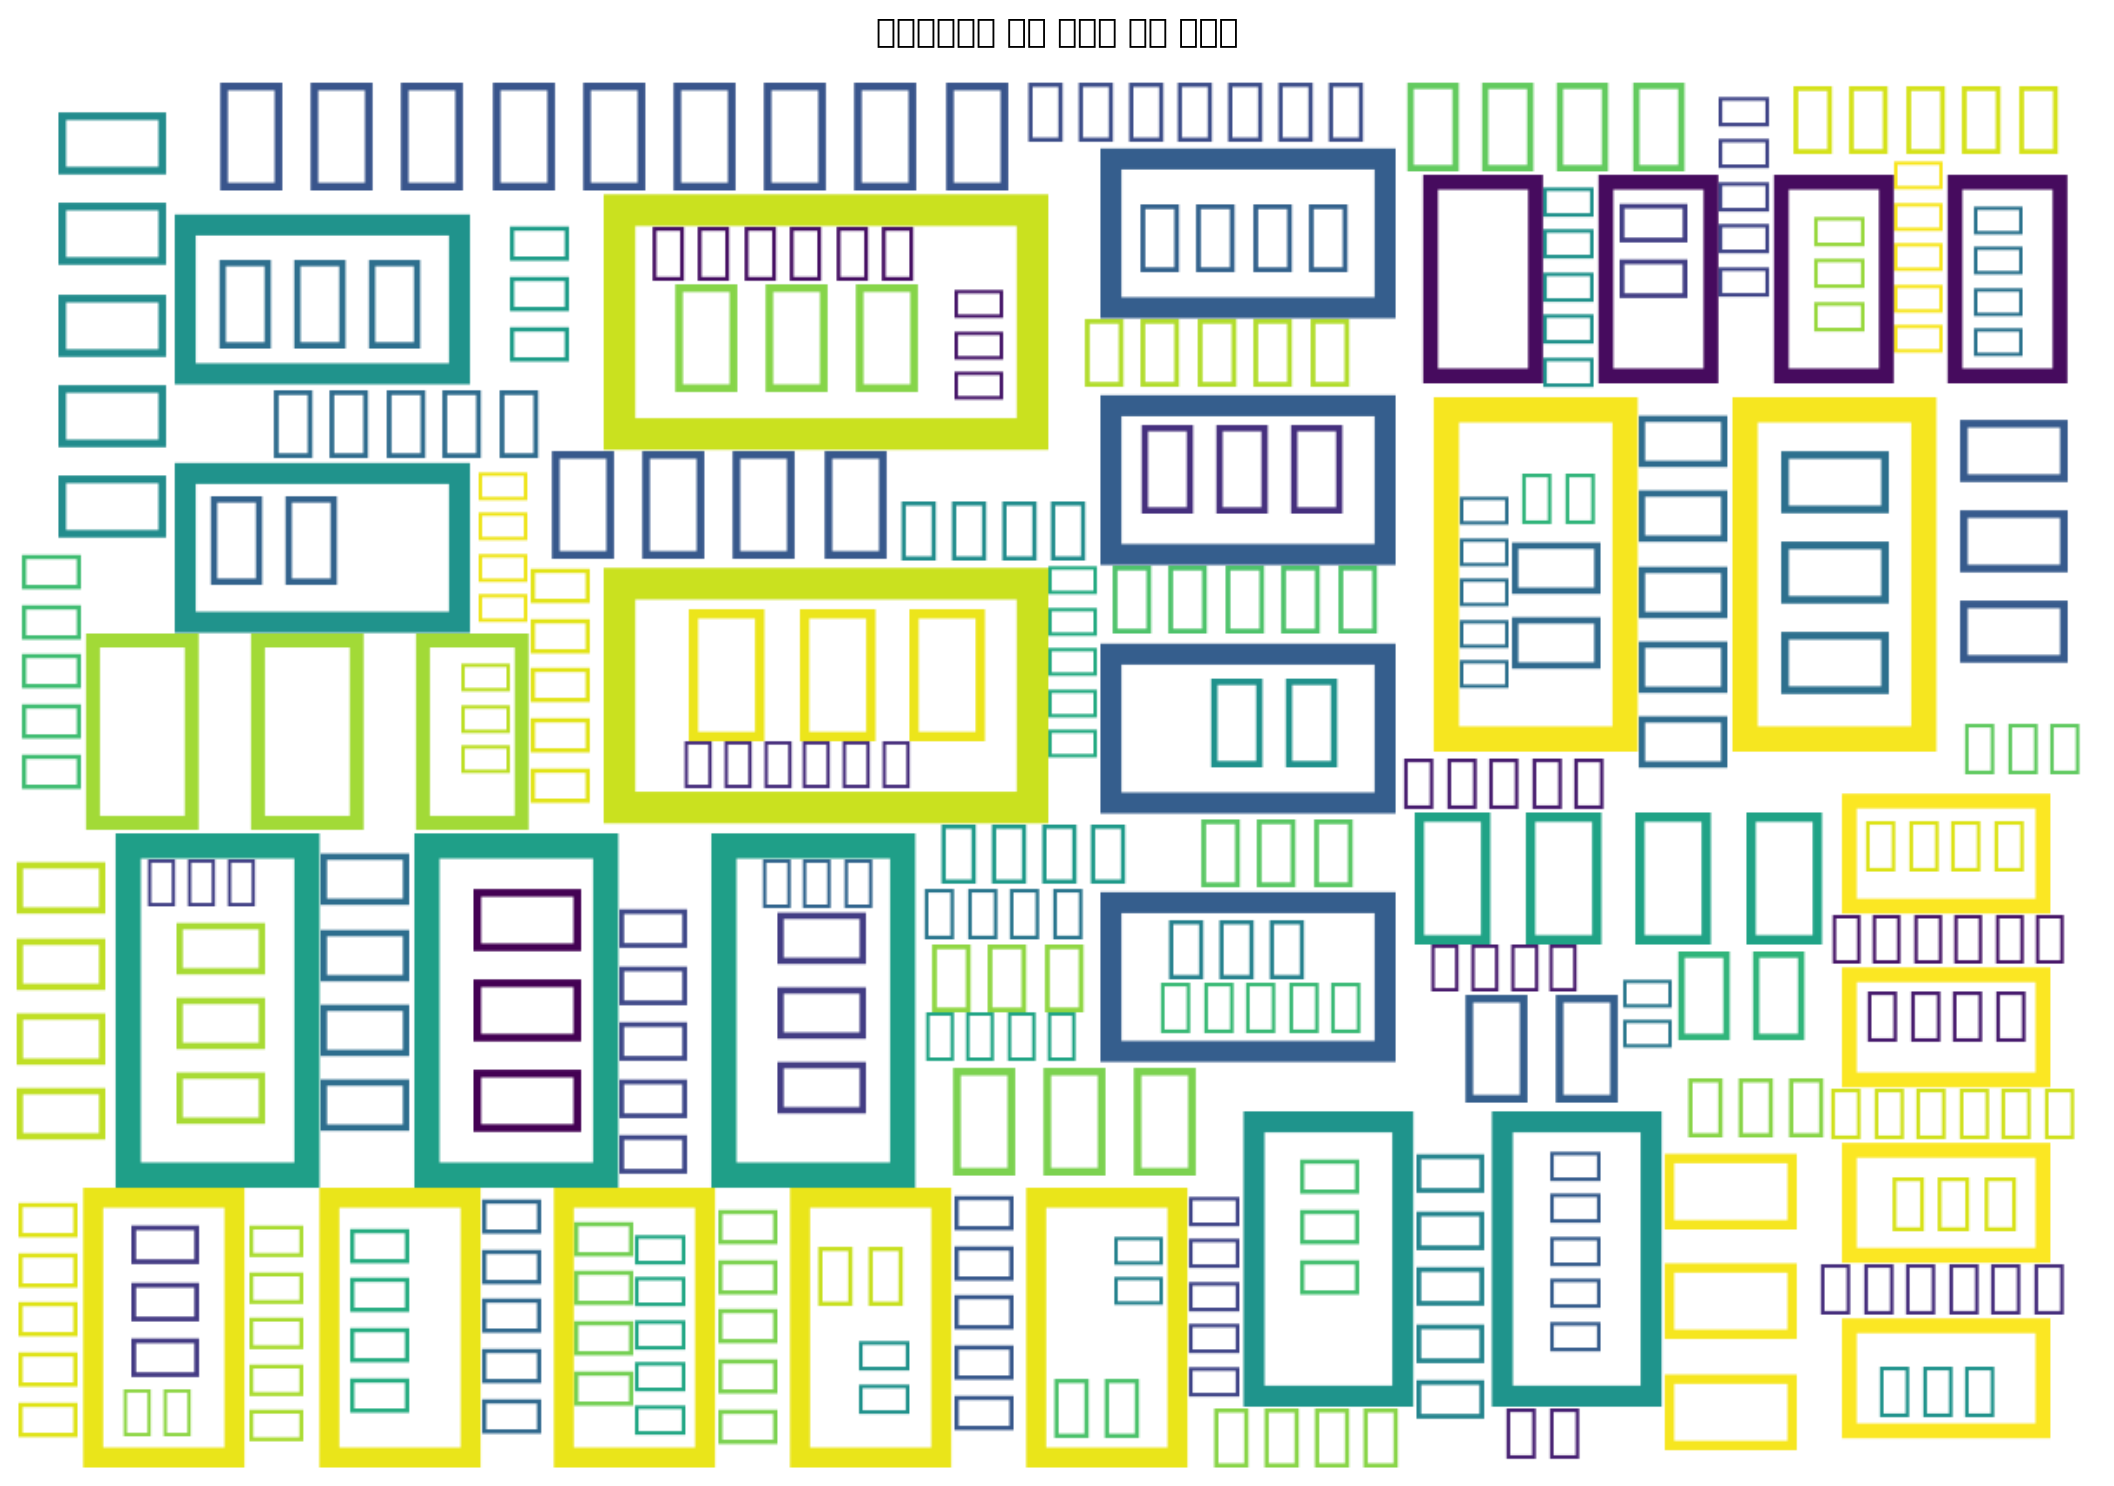
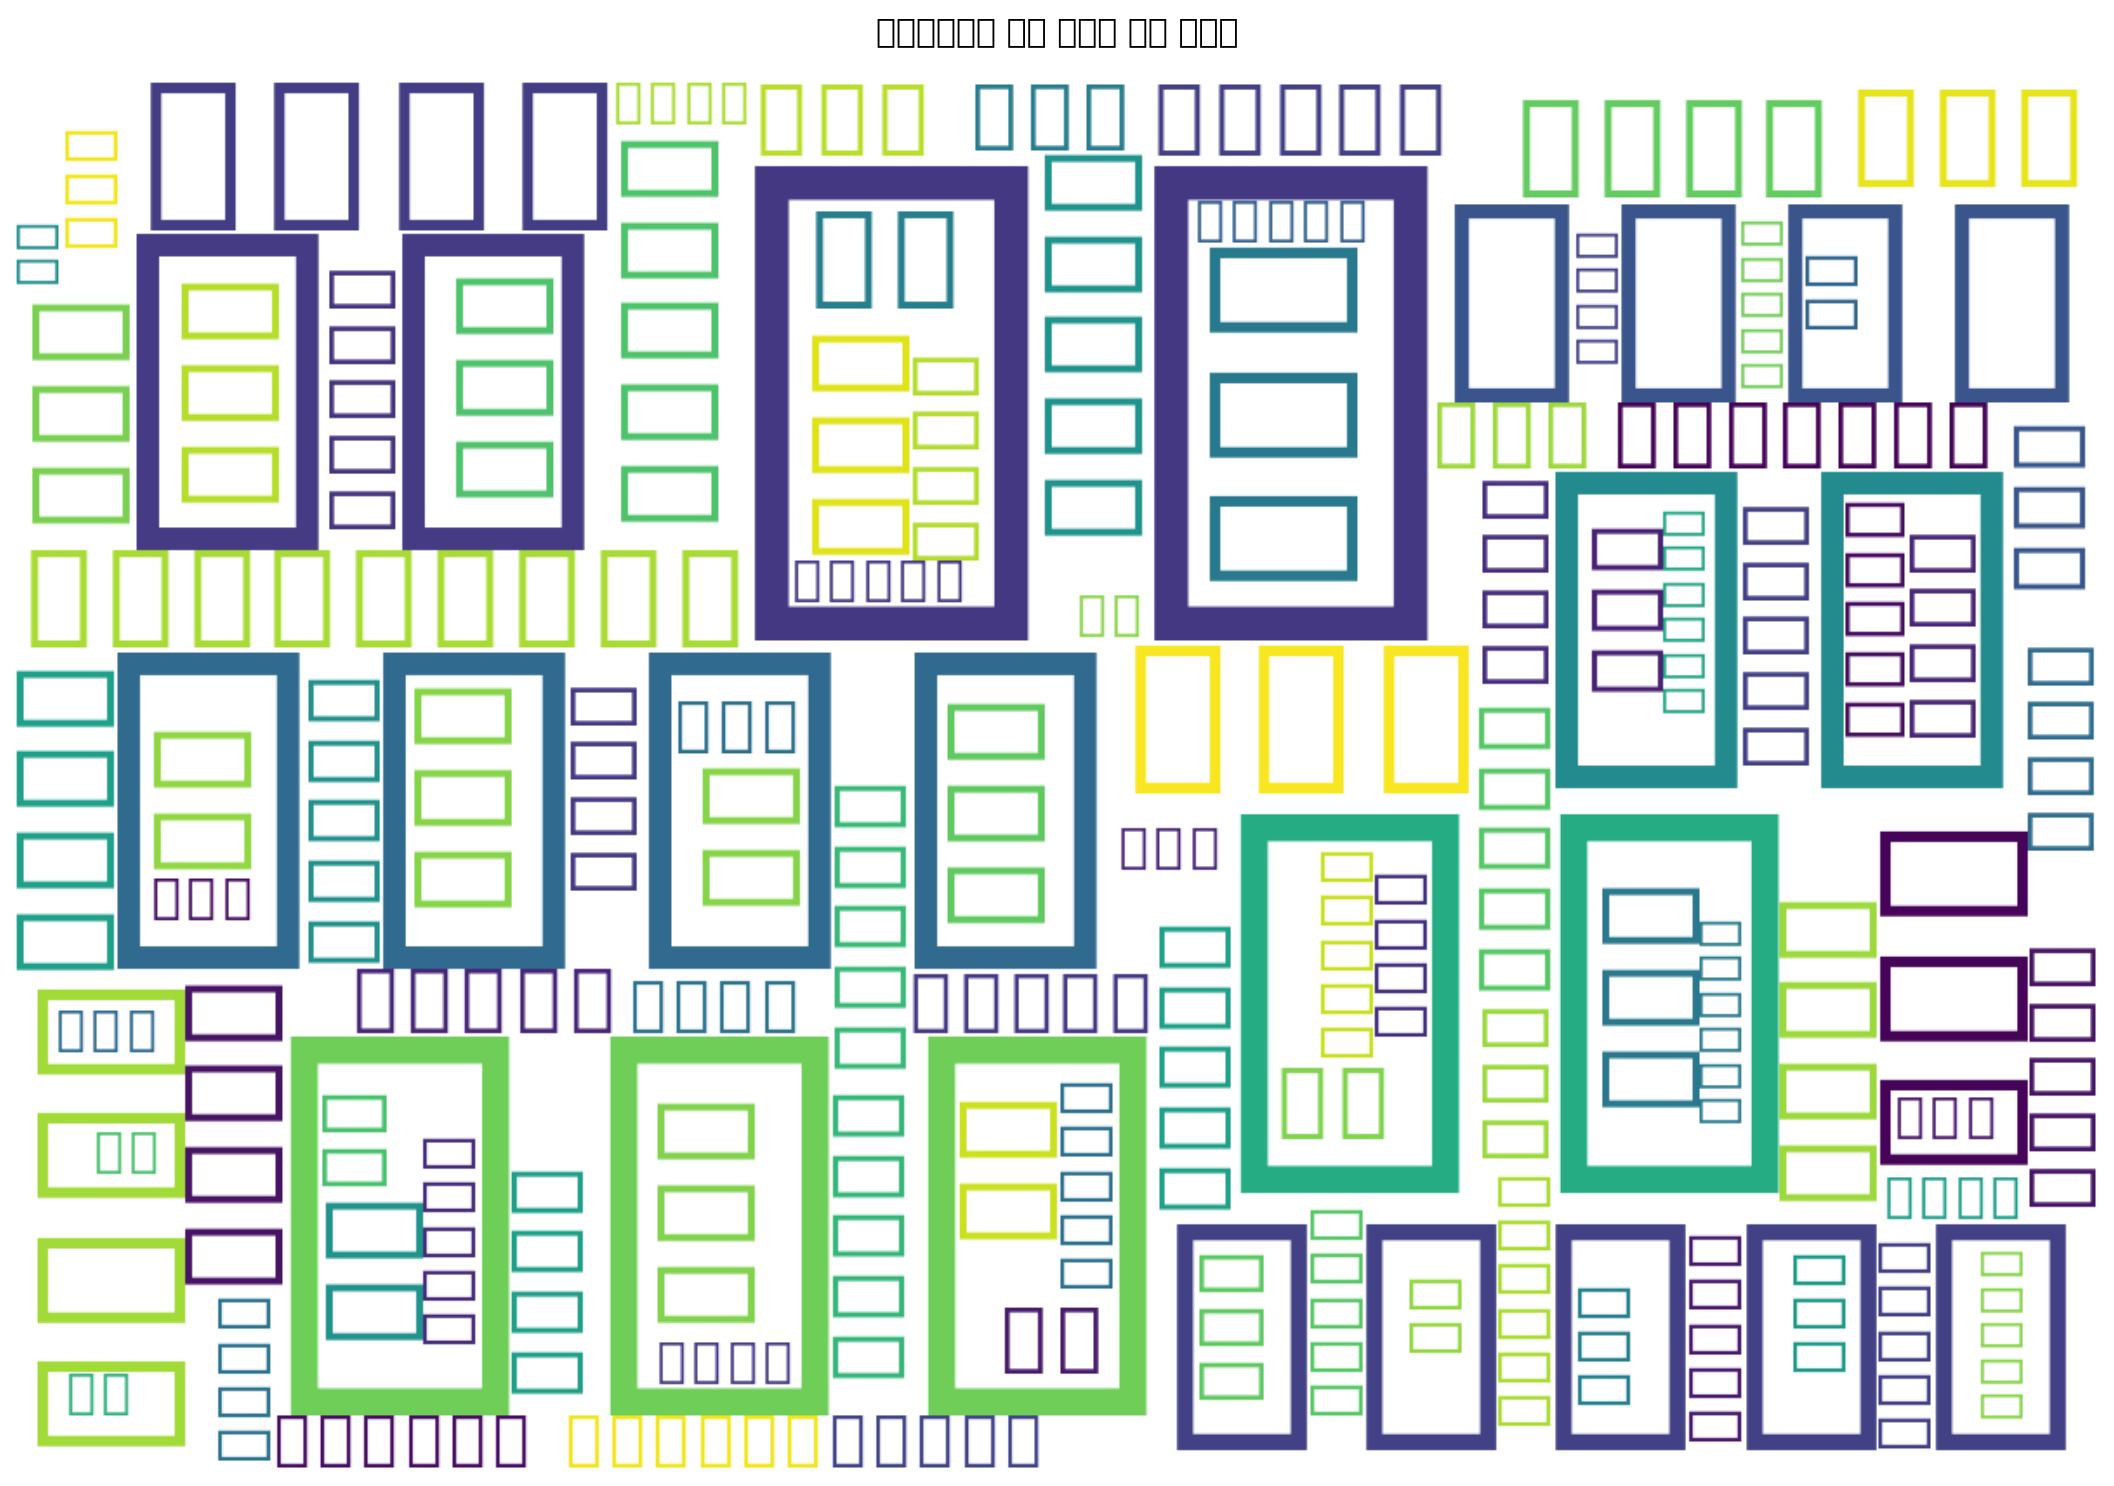
Add Jensen-Shannon Divergence topic similarity analysis
Adds compute_jsd_similarity(), plot_jsd_heatmap(), and save_jsd_table()
to quantify pairwise topic distinctiveness. Outputs:
- results/JSD_토픽유사도.png  (side-by-side JSD and similarity heatmaps)
- results/JSD_토픽유사도.csv  (ranked pairwise table with 유사/보통/상이 labels)

Integrated into main pipeline after topic keyword table export.

https://claude.ai/code/session_01Vh1zAYYJWHR2oReCJPMMdU

diff --git a/lda_analysis.py b/lda_analysis.py
@@ -437,7 +437,99 @@ def save_topic_keyword_table(lda, num_topics: int = 7, top_n: int = 20,
 
 
 # ════════════════════════════════════════════════════════════════
-# 7. pyLDAvis 인터랙티브 시각화 (선택)
+# 7. 토픽 간 Jensen-Shannon 유사도 분석
+# ════════════════════════════════════════════════════════════════
+
+def compute_jsd_similarity(lda, dictionary) -> tuple[np.ndarray, np.ndarray]:
+    """
+    토픽-단어 분포 벡터 간 Jensen-Shannon Divergence를 계산하고
+    유사도 행렬(1 - JSD)을 반환한다.
+    """
+    import itertools
+    from gensim.matutils import jensen_shannon
+
+    num_topics = lda.num_topics
+    vocab_size = len(dictionary)
+
+    # 각 토픽의 전체 단어 확률 벡터 구성
+    topic_word_dists = []
+    for t in range(num_topics):
+        vec = np.zeros(vocab_size)
+        for word_id, prob in lda.get_topic_terms(t, topn=vocab_size):
+            vec[word_id] = prob
+        vec = vec / vec.sum()  # 정규화
+        topic_word_dists.append(vec)
+
+    jsd_matrix = np.zeros((num_topics, num_topics))
+    for i, j in itertools.combinations(range(num_topics), 2):
+        jsd = jensen_shannon(topic_word_dists[i], topic_word_dists[j])
+        jsd_matrix[i, j] = jsd_matrix[j, i] = jsd
+
+    similarity_matrix = 1 - jsd_matrix
+    return jsd_matrix, similarity_matrix
+
+
+def plot_jsd_heatmap(jsd_matrix: np.ndarray, similarity_matrix: np.ndarray,
+                     num_topics: int = 7,
+                     save_dir: str = 'results'):
+    os.makedirs(save_dir, exist_ok=True)
+    labels = [f'T{t+1}\n{TOPIC_LABELS.get(t, (f"T{t+1}",""))[0][:6]}' for t in range(num_topics)]
+
+    fig, axes = plt.subplots(1, 2, figsize=(16, 6))
+
+    for ax, matrix, title, cmap in [
+        (axes[0], jsd_matrix,        '토픽 간 JSD (낮을수록 유사)',   'YlOrRd'),
+        (axes[1], similarity_matrix, '토픽 간 유사도 (1 - JSD)',      'YlGn'),
+    ]:
+        im = ax.imshow(matrix, cmap=cmap, vmin=0, vmax=1)
+        plt.colorbar(im, ax=ax, fraction=0.046, pad=0.04)
+        ax.set_xticks(range(num_topics))
+        ax.set_yticks(range(num_topics))
+        ax.set_xticklabels(labels, fontsize=8)
+        ax.set_yticklabels(labels, fontsize=8)
+        ax.set_title(title, fontsize=12, fontweight='bold')
+        # 셀 값 표기
+        for i in range(num_topics):
+            for j in range(num_topics):
+                ax.text(j, i, f'{matrix[i, j]:.2f}',
+                        ha='center', va='center', fontsize=7,
+                        color='white' if matrix[i, j] > 0.6 else 'black')
+
+    plt.suptitle('토픽 간 Jensen-Shannon 유사도 분석', fontsize=14, fontweight='bold')
+    plt.tight_layout()
+    path = os.path.join(save_dir, 'JSD_토픽유사도.png')
+    plt.savefig(path, dpi=150, bbox_inches='tight')
+    plt.close()
+    print(f"[저장] JSD 히트맵 → {path}")
+
+
+def save_jsd_table(jsd_matrix: np.ndarray, similarity_matrix: np.ndarray,
+                   num_topics: int = 7,
+                   save_path: str = 'results/JSD_토픽유사도.csv'):
+    os.makedirs(os.path.dirname(save_path), exist_ok=True)
+    rows = []
+    for i in range(num_topics):
+        for j in range(i + 1, num_topics):
+            label_i = TOPIC_LABELS.get(i, (f'Topic {i+1}', ''))[0]
+            label_j = TOPIC_LABELS.get(j, (f'Topic {j+1}', ''))[0]
+            rows.append({
+                '토픽 A': f'T{i+1} {label_i}',
+                '토픽 B': f'T{j+1} {label_j}',
+                'JSD':    round(jsd_matrix[i, j], 4),
+                '유사도(1-JSD)': round(similarity_matrix[i, j], 4),
+                '해석': '유사' if similarity_matrix[i, j] >= 0.7
+                        else '보통' if similarity_matrix[i, j] >= 0.4
+                        else '상이',
+            })
+    df = pd.DataFrame(rows).sort_values('유사도(1-JSD)', ascending=False)
+    df.to_csv(save_path, index=False, encoding='utf-8-sig')
+    print(f"[저장] JSD 유사도표 → {save_path}")
+    print(df.to_string(index=False))
+    return df
+
+
+# ════════════════════════════════════════════════════════════════
+# 8. pyLDAvis 인터랙티브 시각화 (선택)
 # ════════════════════════════════════════════════════════════════
 
 def save_pyldavis(lda, corpus, dictionary,
@@ -513,6 +605,13 @@ def main(
         plot_document_topic_heatmap(lda, corpus, num_topics=num_topics)
         plot_topic_distribution(lda, corpus, num_topics=num_topics)
         save_topic_keyword_table(lda, num_topics=num_topics)
+
+        # JSD 토픽 유사도 분석
+        print("\n[JSD] 토픽 간 Jensen-Shannon 유사도 계산 중...")
+        jsd_matrix, similarity_matrix = compute_jsd_similarity(lda, dictionary)
+        plot_jsd_heatmap(jsd_matrix, similarity_matrix, num_topics=num_topics)
+        save_jsd_table(jsd_matrix, similarity_matrix, num_topics=num_topics)
+
         save_pyldavis(lda, corpus, dictionary)
 
         # 모델 저장
